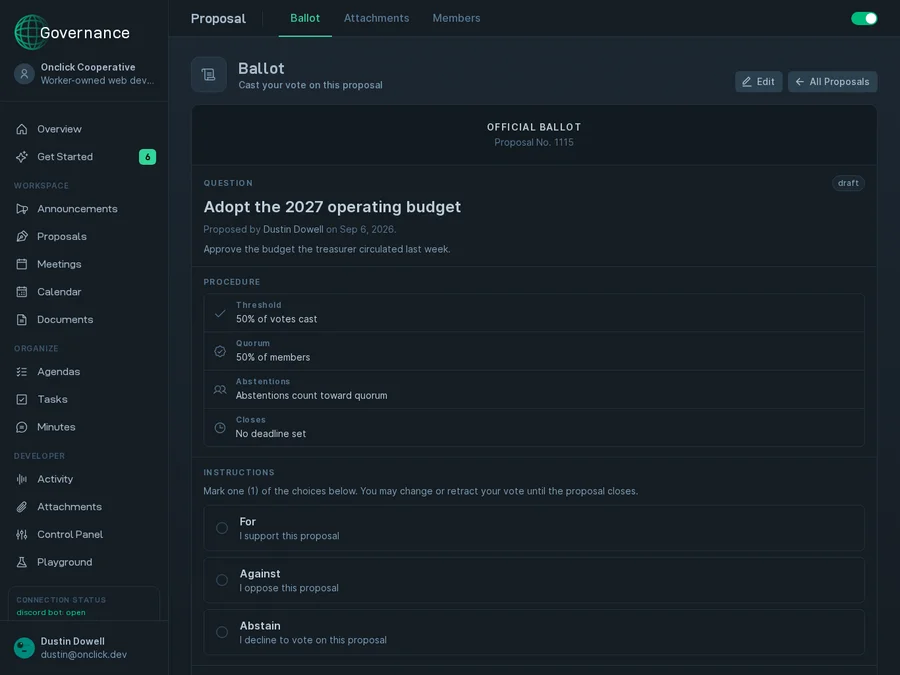
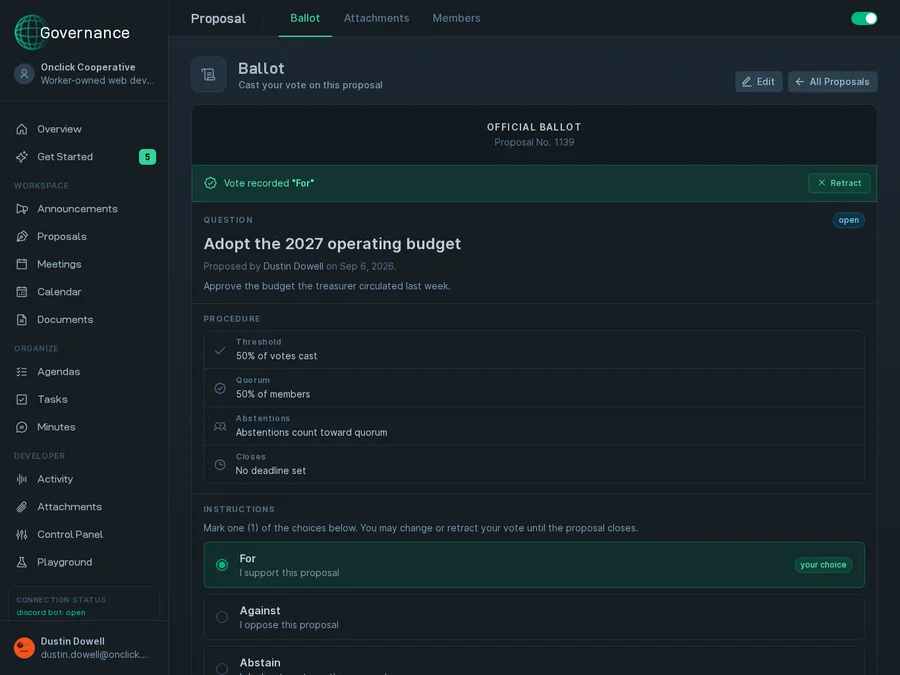
chore(client): add the vote and minutes transcript screenshots

diff --git a/client/src/features/work/products/onclick.md b/client/src/features/work/products/onclick.md
@@ -7,15 +7,17 @@ order: 2
 images:
   - src: /screenshots/onclick/01_overview.webp
     alt: "Collective overview"
-  - src: /screenshots/onclick/04_calendar.webp
+  - src: /screenshots/onclick/05_calendar.webp
     alt: "Meeting calendar"
   - src: /screenshots/onclick/02_proposals.webp
     alt: "Proposals"
   - src: /screenshots/onclick/03_ballot.webp
-    alt: "Proposal ballot"
-  - src: /screenshots/onclick/03_events.webp
-    alt: "Upcoming meetings and history"
-  - src: /screenshots/onclick/07_documents.webp
+    alt: "Proposal ballot with a recorded vote"
+  - src: /screenshots/onclick/04_events.webp
+    alt: "Upcoming meetings"
+  - src: /screenshots/onclick/12_minutes-view.webp
+    alt: "Meeting minutes with the transcript"
+  - src: /screenshots/onclick/08_documents.webp
     alt: "Documents"
 ---
 
